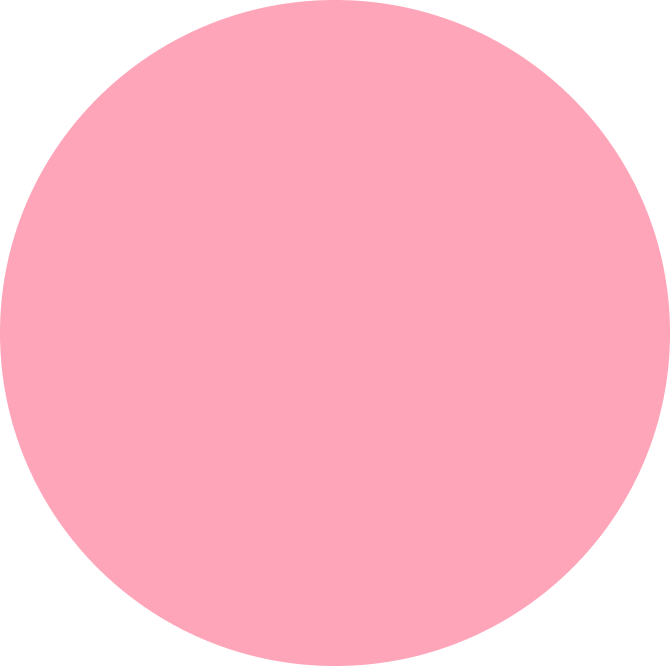
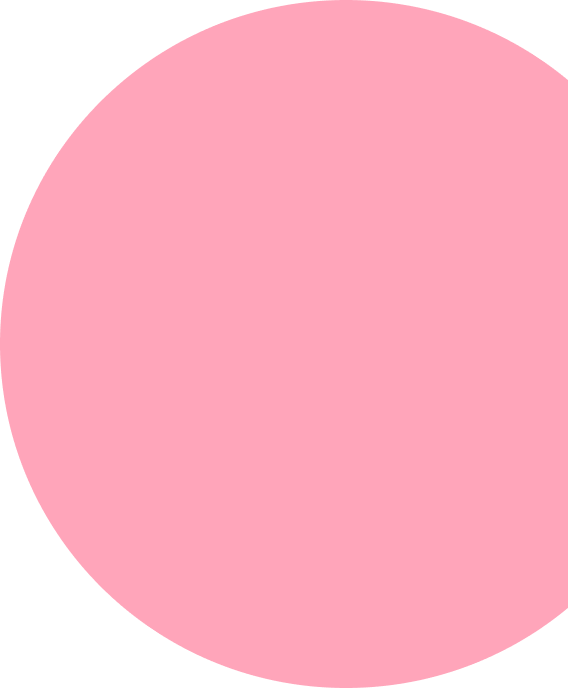
mobail-hero

diff --git a/src/partials/header.html b/src/partials/header.html
@@ -1,25 +1,29 @@
 
 <!-- secrion HERO -->
 <div class="header__hero hero">
-    <div class="container">
-        <div class="hero__wrapper">
-            <h1 class="hero__title">
-                ice cream made with
-                <span class="hero__title hero__title--big">passion</span> 
-            </h1>
+    <div class="hero__wrapper">
+        <div class="container">
+            <div class="hero__content">
+                <h1 class="hero__title">
+                    ice cream made with
+                    <span class="hero__title hero__title--big">passion</span> 
+                </h1>
+                
+                <ul class="hero__list">
+                    <li class="hero__item"><a href="#prodacts.html" class="hero__link">Products</a></li>
+                    <li class="hero__item"><a href="#about.html" class="hero__link hero__link--white">How it’s made?</a></li>
+                </ul>
+            </div>
+            <picture>
+                <source media="(min-width: 320px)" sizes="(min-width: 284px) 284px, 100vw" srcset="./images/header/tablet/Ellipse-tb.png 1x, ./images/header/tablet/Ellipse-tb@2x.png 2x" type="image/png" />
+                <source media="(min-width: 768px)" sizes="(min-width: 335px) 335px, 100vw" srcset="./images/header/mobail/Ellipse-mb.png 1x, ./images/header/mobail/Ellipse-mb@2x.png 2x" type="image/png" />
+                <img class="hero__images hero__images--eclips" src="./images/header/mobail/Ellipse-mb.png" alt="elips" width="284" height="344"/>
+            </picture>
+            <picture>
+                <source media="(min-width: 320px)" sizes="(min-width: 171px) 171px, 100vw" srcset="./images/header/mobail/ice-mb.png 1x, ./images/header/mobail/ice-mb@2x.png 2x" type="image/png"/>
+                <img class="hero__images hero__images--ice" src="./images/header/mobail/ice-mb.png" alt="ice" width="171" height="410"/>
+            </picture>
             
-            <ul class="hero__list">
-                <li class="hero__item"><a href="#prodacts.html" class="hero__link">Products</a></li>
-                <li class="hero__item"><a href="#about.html" class="hero__link hero__link--white">How it’s made?</a></li>
-            </ul>
         </div>
-        <picture>
-            <source srcset="./images/header/mobail/Ellipse-mb.png 1x, ./images/header/mobail/Ellipse-mb.png 2x" type="image/png" />
-            <img class="hero__images hero__images--eclips" src="./images/header/mobail/Ellipse-mb.png" alt="elips" width="346" height="344"/>
-        </picture>
-        <picture>
-            <source srcset="./images/header/mobail/ice-mb.png 1x, ./images/header/mobail/ice-mb.png 2x" type="image/png"/>
-            <img class="hero__images hero__images--ice" src="./images/header/mobail/ice-mb.png" alt="ice" width="171" height="410"/>
-        </picture>
     </div>
 </div>

diff --git a/src/sass/layouts/_header.scss b/src/sass/layouts/_header.scss
@@ -1,21 +1,37 @@
 
 // section HERO 
 .hero {
-    min-width: 320px;
-    width: 100%;
+    background-color: rgba(255, 184, 202, 1);
+    overflow: hidden;
+}
+.hero__wrapper {
 
+    
+    
+    width: 100%;
     padding-top: 194px;
     padding-bottom: 158px;
 
     position: relative;
 
     z-index: 5;
-    overflow: hidden;
     
-    background-color: rgba(255, 184, 202, 1);
+   
+    // @include mq(mobile) {
+    //     max-width: none;
+    //     width: 320px;
+    //     margin-left: auto;
+    //     margin-right: auto;
+    // }
+    @include mq(mobile-only) {
+        width: 320px;
+        margin-left: auto;
+        margin-right: auto;
+    }
+    
 }
 
-.hero__wrapper {
+.hero__content {
     position: relative;
     z-index: 10;
 }
@@ -87,13 +103,42 @@
     left: 0;
     z-index: 0;
     &--eclips {
-        width: 346px;
+        width: 284px;
+        height: 344px;
         top: 83px;
         left: 36px;
-        
+        animation-name: eclips;
+        animation-duration: 0.9s;
+        animation-timing-function: cubic-bezier(0.4, 0, 0.2, 1);
     }
     &--ice {
         top: 92px;
         left: 117px;
+        animation-name: ice;
+        animation-duration: 0.9s;
+        animation-timing-function: cubic-bezier(0.4, 0, 0.2, 1);
+        
     }
 }
+
+@keyframes eclips {
+    0% {
+      transform: translateX(100%);
+    }
+    
+    100% {
+      transform: translateX(0);
+    }
+  }
+
+  @keyframes ice {
+    0% {
+      transform: translateY(100%);
+      
+    }
+    
+    100% {
+      transform: translateY(0);
+      
+    }
+  }
